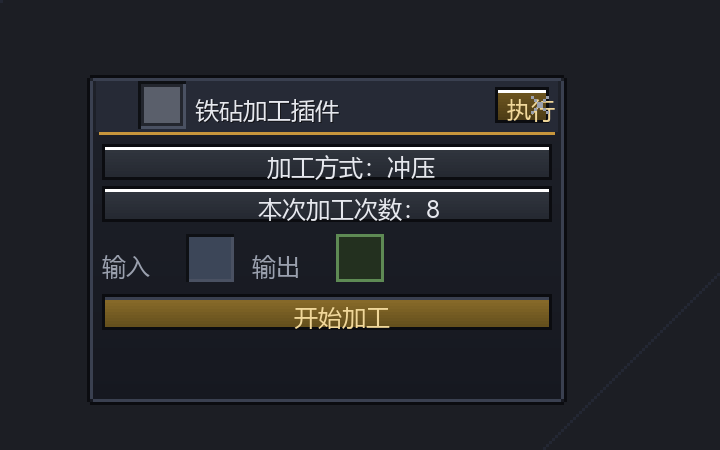
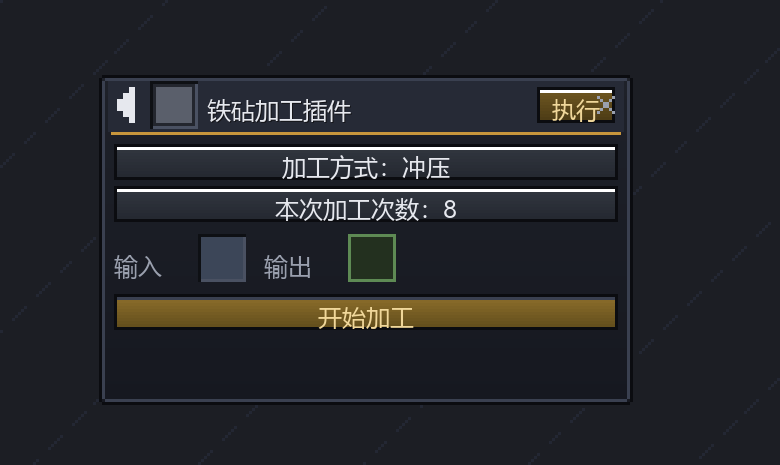
fix(ui): 文字与按钮对齐
面板加宽到 176 与安装台一致；底部按钮宽度按实测文字宽度（font.width + 8）计算，中文标签不再被截断；上移/下移与返回箭头改为几何图形绘制（不再依赖字体里的箭头字形，避免不同字体包/缩放下错位）；修正三角形方向（原实现上箭头画成了下箭头）。预览图已按真实字宽重排。

Changed region(s): [[0.1222, 0.1556, 0.825, 0.9022]]

diff --git a/src/main/java/dev/anvilcraft/addon/terminalplugins/client/TerminalPluginPanel.java b/src/main/java/dev/anvilcraft/addon/terminalplugins/client/TerminalPluginPanel.java
@@ -28,7 +28,7 @@ import java.util.function.Supplier;
 public class TerminalPluginPanel implements PluginSettingsView.Ctx {
     private static final int BUTTON_WIDTH = 52;
     private static final int BUTTON_HEIGHT = 14;
-    private static final int PANEL_WIDTH = 158;
+    private static final int PANEL_WIDTH = 176;
     private static final int DRAG_THRESHOLD = 3;
     private static final int VISIBLE_ROWS = 5;
     private static final String POSITION_FILE = "anvilcraft_terminal_plugins_panel.txt";
@@ -469,7 +469,7 @@ public class TerminalPluginPanel implements PluginSettingsView.Ctx {
             if (backHovered) {
                 graphics.fill(x + 2, y + 2, x + 14, y + 14, PanelStyle.BUTTON_HOVER_TOP);
             }
-            graphics.drawString(minecraft.font, "<", x + 5, y + 5, PanelStyle.TEXT, false);
+            PanelStyle.backArrow(graphics, x + 4, y + 4, backHovered);
             String name = minecraft.font.width(selectedPlugin.getHoverName()) > TerminalPluginPanel.PANEL_WIDTH - 62
                 ? minecraft.font.plainSubstrByWidth(selectedPlugin.getHoverName().getString(), TerminalPluginPanel.PANEL_WIDTH - 62)
                 : selectedPlugin.getHoverName().getString();
@@ -535,33 +535,57 @@ public class TerminalPluginPanel implements PluginSettingsView.Ctx {
                 x + TerminalPluginPanel.PANEL_WIDTH - 16, rowY - 12, PanelStyle.TEXT_DIM, false);
         }
 
+        // 按钮宽度按「实测文字宽度 + 内边距」计算：中文两字比拉丁字符宽得多，
+        // 写死宽度会把标签截断，看起来就像文字没有对上按钮。
         int buttonY = rowY + 3;
         int buttonX = x + 4;
-        buttonX = this.button(graphics, minecraft, buttonX, buttonY, 22,
-            TerminalPluginManager.isEnabled(selectedPlugin)
-                ? "screen.anvilcraft_terminal_plugins.panel.disable"
-                : "screen.anvilcraft_terminal_plugins.panel.enable",
+        String toggleKey = TerminalPluginManager.isEnabled(selectedPlugin)
+            ? "screen.anvilcraft_terminal_plugins.panel.disable"
+            : "screen.anvilcraft_terminal_plugins.panel.enable";
+        buttonX = this.button(graphics, minecraft, buttonX, buttonY,
+            this.fitWidth(minecraft, toggleKey), toggleKey,
             PluginActionPacket.TOGGLE_ENABLED, this.selected, -1, mouseX, mouseY);
-        buttonX = this.button(graphics, minecraft, buttonX, buttonY, 14,
-            "screen.anvilcraft_terminal_plugins.panel.up", PluginActionPacket.MOVE_UP, this.selected, -1, mouseX, mouseY);
-        buttonX = this.button(graphics, minecraft, buttonX, buttonY, 14,
-            "screen.anvilcraft_terminal_plugins.panel.down", PluginActionPacket.MOVE_DOWN, this.selected, -1, mouseX, mouseY);
-        buttonX = this.button(graphics, minecraft, buttonX, buttonY, 20,
-            "screen.anvilcraft_terminal_plugins.panel.remove", PluginActionPacket.REMOVE, this.selected, -1, mouseX, mouseY);
-        buttonX = this.button(graphics, minecraft, buttonX, buttonY, 24,
-            "screen.anvilcraft_terminal_plugins.panel.settings", TerminalPluginPanel.LOCAL_SETTINGS, this.selected, -1, mouseX, mouseY);
+        buttonX = this.arrowButton(graphics, minecraft, buttonX, buttonY,
+            PluginActionPacket.MOVE_UP, true, mouseX, mouseY);
+        buttonX = this.arrowButton(graphics, minecraft, buttonX, buttonY,
+            PluginActionPacket.MOVE_DOWN, false, mouseX, mouseY);
+        buttonX = this.button(graphics, minecraft, buttonX, buttonY,
+            this.fitWidth(minecraft, "screen.anvilcraft_terminal_plugins.panel.remove"),
+            "screen.anvilcraft_terminal_plugins.panel.remove",
+            PluginActionPacket.REMOVE, this.selected, -1, mouseX, mouseY);
+        buttonX = this.button(graphics, minecraft, buttonX, buttonY,
+            this.fitWidth(minecraft, "screen.anvilcraft_terminal_plugins.panel.settings"),
+            "screen.anvilcraft_terminal_plugins.panel.settings",
+            TerminalPluginPanel.LOCAL_SETTINGS, this.selected, -1, mouseX, mouseY);
         if (selectedPlugin.getItem() instanceof TerminalPluginItem selectedItem
             && PluginExecViews.has(selectedItem.kind())) {
-            String execLabel = TerminalPluginPanel.tr("screen.anvilcraft_terminal_plugins.panel.execute");
-            boolean execHovered = mouseX >= buttonX && mouseX < buttonX + 26
+            String execKey = "screen.anvilcraft_terminal_plugins.panel.execute";
+            String execLabel = TerminalPluginPanel.tr(execKey);
+            int execWidth = this.fitWidth(minecraft, execKey);
+            boolean execHovered = mouseX >= buttonX && mouseX < buttonX + execWidth
                                   && mouseY >= buttonY && mouseY < buttonY + 12;
-            PanelStyle.button(graphics, minecraft.font, buttonX, buttonY, 26, 12, execLabel, execHovered, true, true);
-            this.addRegion(new Region(buttonX, buttonY, 26, 12, TerminalPluginPanel.LOCAL_EXECUTE, this.selected, -1), 0.0F,
+            PanelStyle.button(graphics, minecraft.font, buttonX, buttonY, execWidth, 12, execLabel, execHovered, true, true);
+            this.addRegion(new Region(buttonX, buttonY, execWidth, 12, TerminalPluginPanel.LOCAL_EXECUTE, this.selected, -1), 0.0F,
                 "screen.anvilcraft_terminal_plugins.panel.execute_tip");
         }
 
         this.renderTips(graphics, minecraft, mouseX, mouseY);
         this.renderFooter(graphics, minecraft, x, y + height);
+    }
+
+    /** 按钮宽度：至少 26，且保证「标签 + 左右各 4 像素」放得下，避免中文被截断。 */
+    private int fitWidth(Minecraft minecraft, String translationKey) {
+        return Math.max(26, minecraft.font.width(TerminalPluginPanel.tr(translationKey)) + 8);
+    }
+
+    /** 上移 / 下移按钮：固定 12 像素方块，箭头用几何图形画，不受字体字形影响。 */
+    private int arrowButton(GuiGraphics graphics, Minecraft minecraft, int x, int y, int action, boolean up,
+                            int mouseX, int mouseY) {
+        boolean hovered = mouseX >= x && mouseX < x + 12 && mouseY >= y && mouseY < y + 12;
+        PanelStyle.button(graphics, minecraft.font, x, y, 12, 12, "", hovered, false, true);
+        PanelStyle.arrow(graphics, x + 2, y + 3, up, hovered);
+        this.addRegion(new Region(x, y, 12, 12, action, this.selected, -1), 0.0F, null);
+        return x + 14;
     }
 
     private int button(GuiGraphics graphics, Minecraft minecraft, int x, int y, int width, String translationKey,

diff --git a/src/main/java/dev/anvilcraft/addon/terminalplugins/client/gui/PanelStyle.java b/src/main/java/dev/anvilcraft/addon/terminalplugins/client/gui/PanelStyle.java
@@ -162,6 +162,32 @@ public final class PanelStyle {
         graphics.fill(x + 1, y + 2, x + 2, y + 3, on ? PanelStyle.DOT_ON : PanelStyle.DOT_OFF);
     }
 
+    /**
+     * 几何箭头：上移 / 下移按钮用。
+     *
+     * <p>不画「↑」「↓」字形：这两个符号来自字体回退，不同字体包与缩放下的
+     * 字形宽度、基线都不一样，会出现「文字对不上按钮」的错位。三角形由矩形堆出来，
+     * 在任何环境下位置都一样。</p>
+     */
+    public static void arrow(GuiGraphics graphics, int x, int y, boolean up, boolean hovered) {
+        int color = hovered ? PanelStyle.ACCENT_LIGHT : PanelStyle.TEXT;
+        for (int row = 0; row < 5; row++) {
+            // 上箭头：第一行只有中间一像素（尖端朝上），最后一行最宽；下箭头反过来
+            int half = up ? row + 1 : 5 - row;
+            graphics.fill(x + 4 - half, y + row, x + 4 + half, y + row + 1, color);
+        }
+    }
+
+    /** 返回箭头：指向左边的三角形。 */
+    public static void backArrow(GuiGraphics graphics, int x, int y, boolean hovered) {
+        int color = hovered ? PanelStyle.ACCENT_LIGHT : PanelStyle.TEXT;
+        for (int col = 0; col < 5; col++) {
+            // 尖端在左：第一列只有中间一像素，向右逐渐变高
+            int half = col + 1;
+            graphics.fill(x + col, y + 5 - half, x + col + 1, y + 5 + half, color);
+        }
+    }
+
     /** 拖动把手：三道横线。 */
     public static void grip(GuiGraphics graphics, int x, int y, int width, boolean hovered) {
         int color = hovered ? PanelStyle.ACCENT_LIGHT : PanelStyle.TEXT_DIM;

diff --git a/docs/CURSEFORGE.md b/docs/CURSEFORGE.md
@@ -44,11 +44,47 @@
 ## 四、自动化（推荐：先修好仓库里已有的 mc-publish）
 
 说明：**Minotaur 只能发 Modrinth，不能发 CurseForge**，所以本仓库走的是 `Kir-Antipov/mc-publish`。
-`.github/workflows/release.yml` 里已经接好了 mc-publish（同时发 Modrinth 与 CurseForge），本次已修正三处问题：
+`.github/workflows/release.yml` 里已经接好了 mc-publish（同时发 Modrinth 与 CurseForge），但有四处需要修改：
 
-1. `if: ${{ steps.properties.outputs.upload }}` 在 GitHub Actions 里恒为真（`"false"` 是非空字符串），已改成 `== 'true'`；
-2. 依赖行 `anvilcraft@1.21.1-1.5.0` 与本体要求不符，已改成 `anvilcraft(required){curseforge:986251}`；
-3. 补上 CurseForge 必需的 `environment: client | server` 与 `loaders: neoforge`，并把 `continue-on-error` 改为 false 以免静默失败。
+1. `if: ${{ steps.properties.outputs.upload }}` 在 GitHub Actions 里恒为真（`"false"` 是非空字符串），要改成 `== 'true'`；
+2. 依赖行 `anvilcraft@1.21.1-1.5.0` 与本体要求不符，要改成 `anvilcraft(required){curseforge:986251}`；
+3. 要补上 CurseForge 必需的 `environment: client | server` 与 `loaders: neoforge`；
+4. `continue-on-error: true` 会让发布失败被静默吞掉，建议改为 false。
+
+修改后的发布步骤应为（其余部分不变）：
+
+```yaml
+      - name: publish neoforge mc mod
+        uses: Kir-Antipov/mc-publish@v3.3.1
+        if: ${{ steps.properties.outputs.upload == 'true' }}
+        continue-on-error: false
+        with:
+          name: "${{ steps.properties.outputs.mod_name }} For NeoForge v${{ steps.version.outputs.version }}"
+          version: ${{ steps.version.outputs.version }}
+          game-versions: 1.21.1
+          loaders: neoforge
+          version-type: ${{ env.VERSION_TYPE }}
+          java: 21
+          environment: client | server
+          fail-mode: skip
+          changelog: ${{ github.event.release.body }}
+
+          modrinth-id: ${{ steps.properties.outputs.modrinth_id }}
+          modrinth-token: ${{ secrets.MODRINTH_TOKEN }}
+          modrinth-featured: true
+
+          curseforge-id: ${{ steps.properties.outputs.curseforge_id }}
+          curseforge-token: ${{ secrets.CURSEFORGE_TOKEN }}
+
+          dependencies: |
+            anvilcraft(required){curseforge:986251}
+
+          files: |
+            build/libs/${{ steps.properties.outputs.mod_id }}-neoforge-${{ steps.version.outputs.version }}.jar
+```
+
+注意：修改 `.github/workflows/` 下的文件需要带 `workflow` 权限的 token（或在 GitHub 网页上直接用编辑器改）。
+本次推送所用的 token 没有该权限，所以这一步需要你在网页上应用上面的补丁。
 
 你还需要做三步（都需要你账号上的信息）：
 
